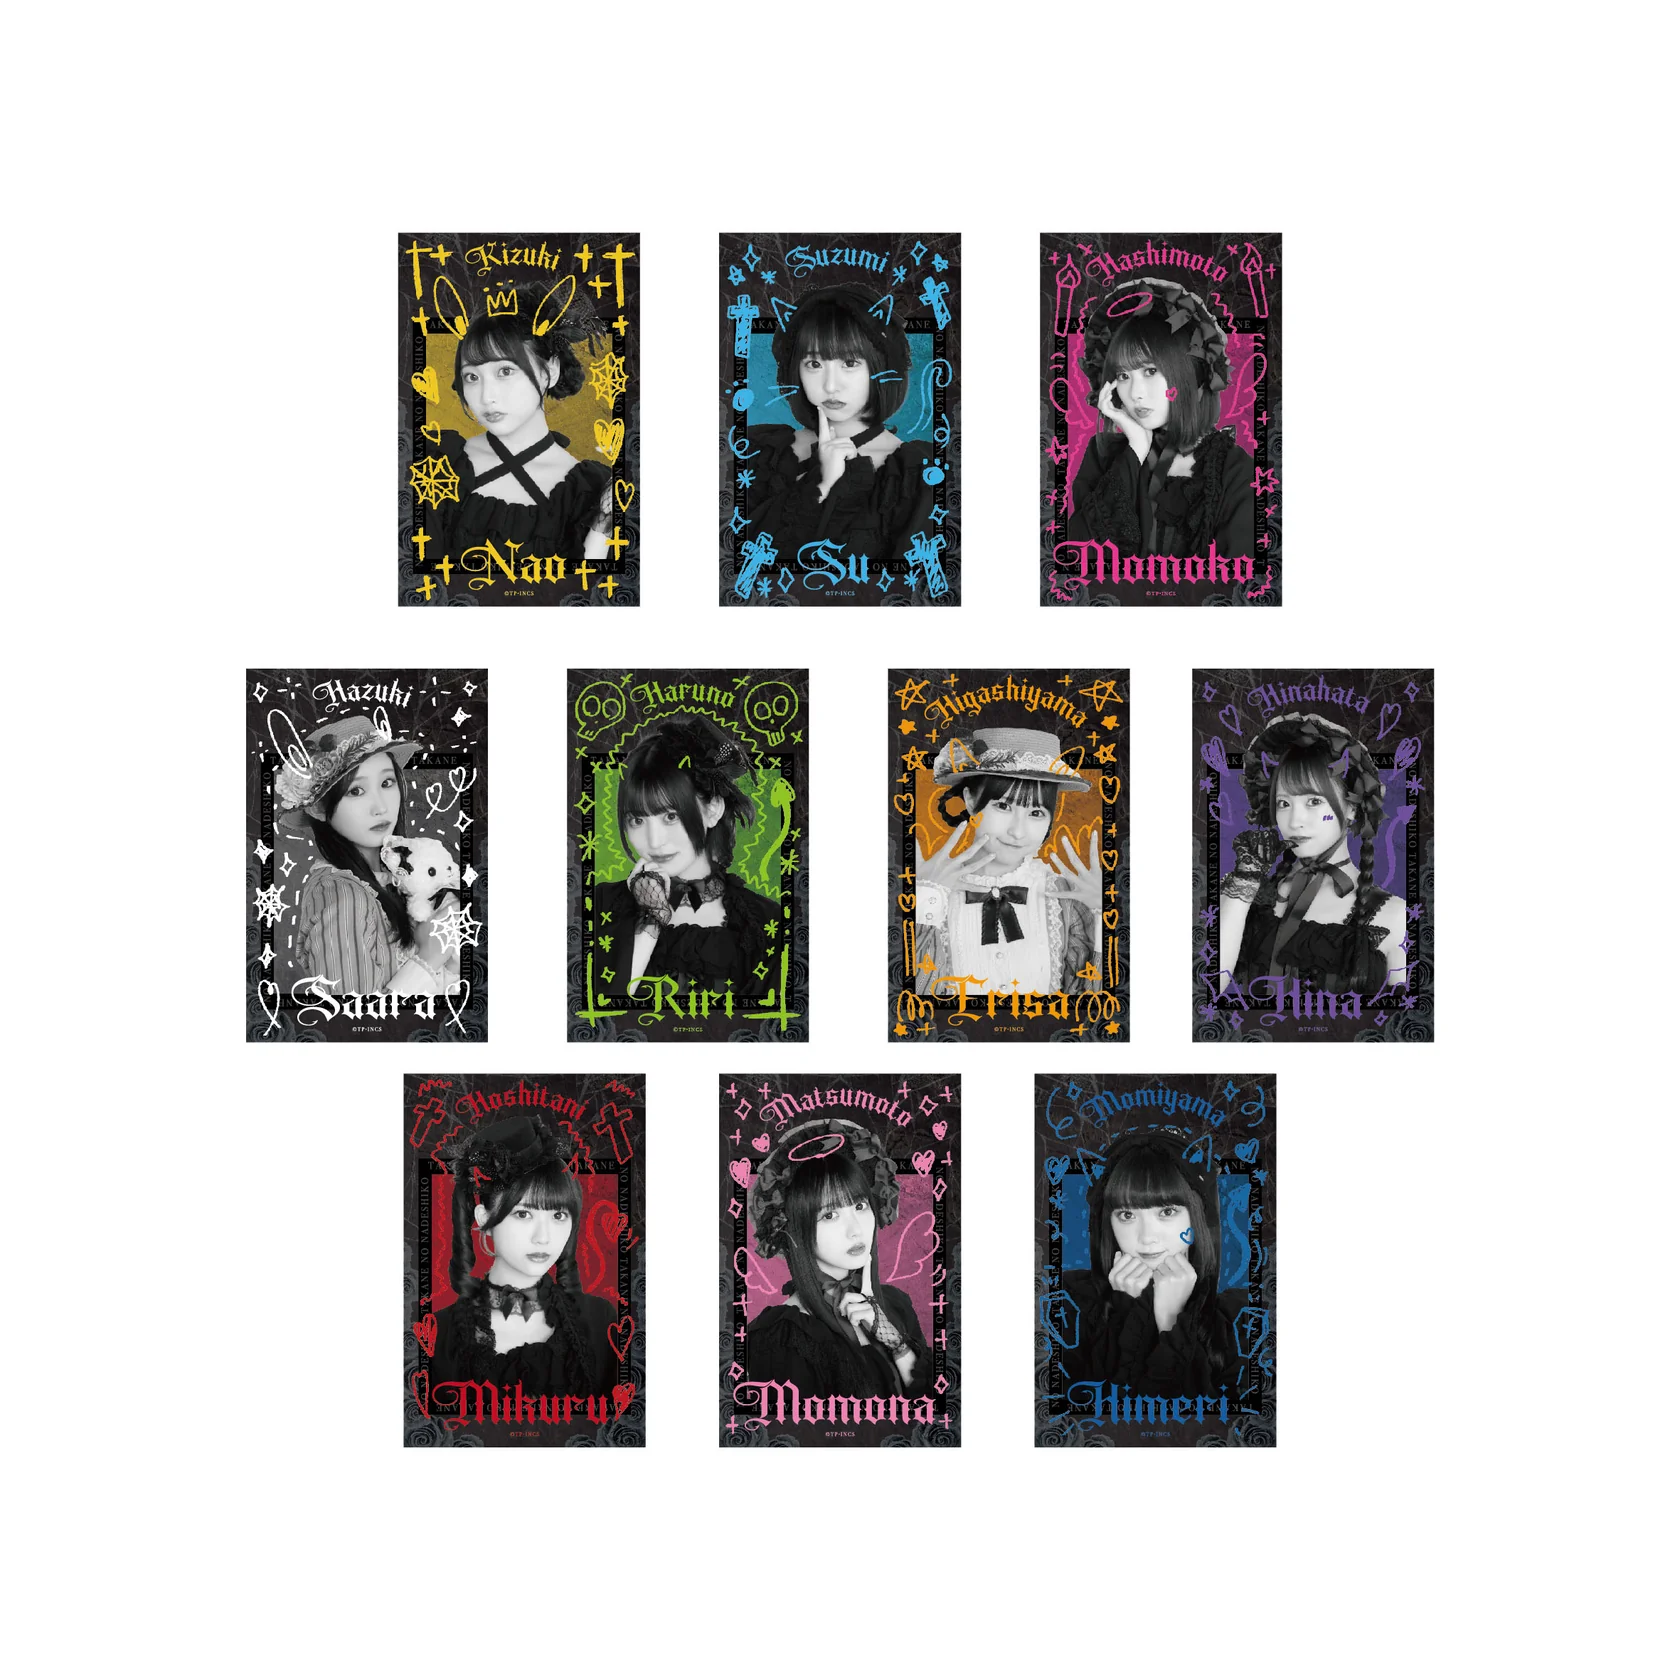
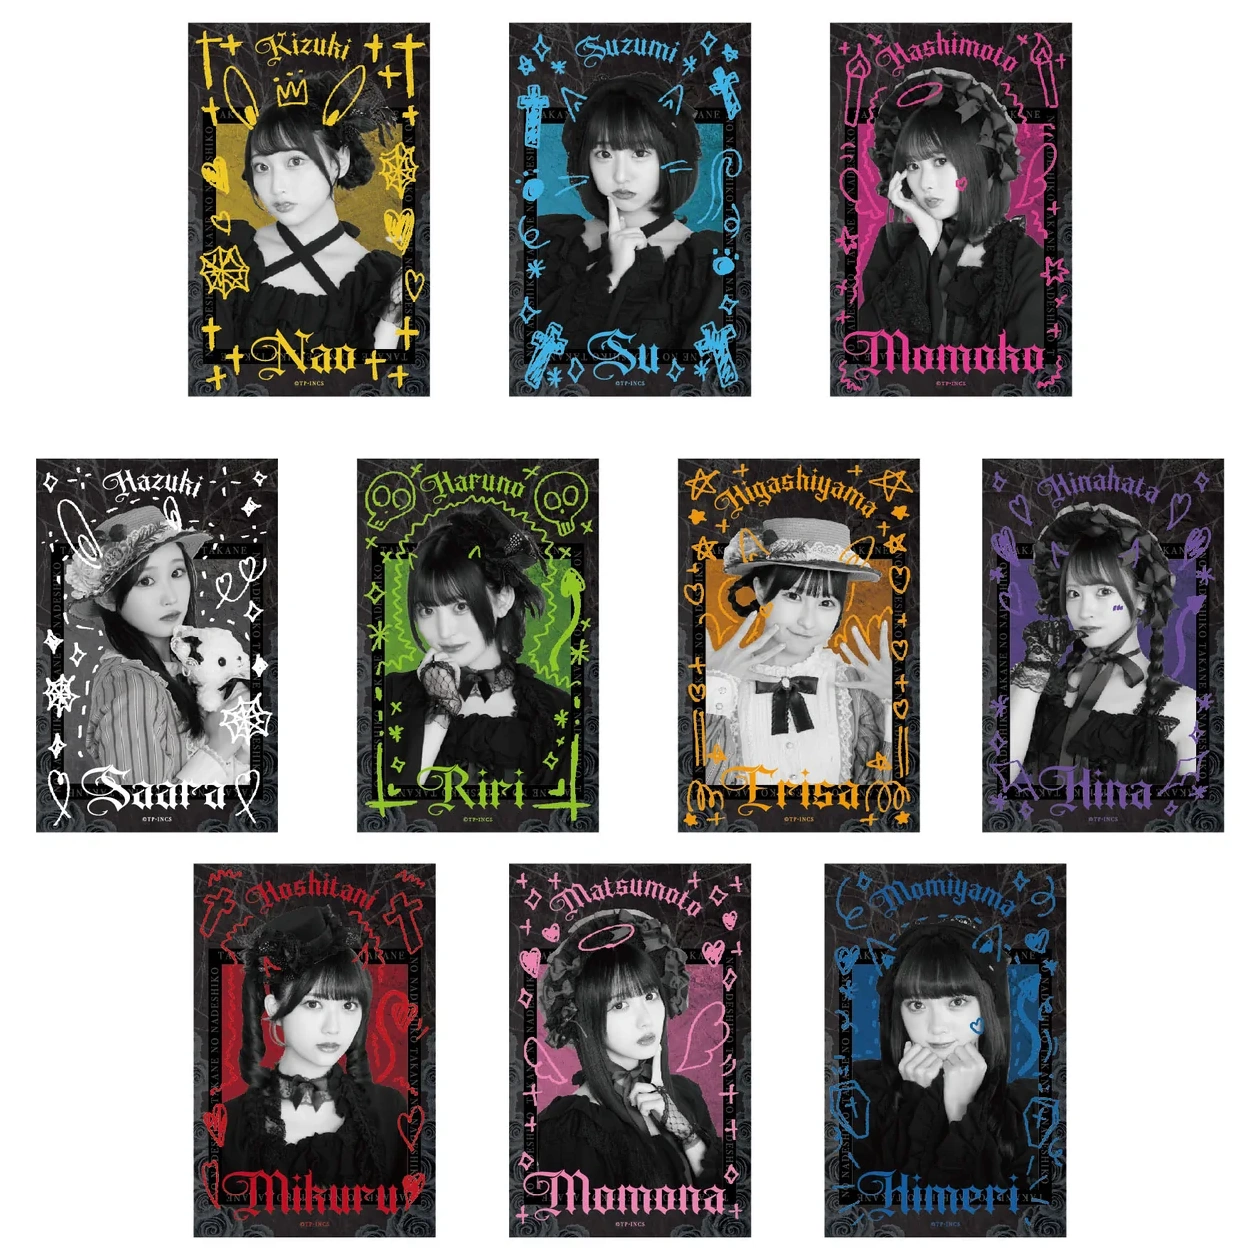
画像の変更に対応

diff --git a/app/features/products/2024/2024-10-31_ハロウィン2024_生写真.ts b/app/features/products/2024/2024-10-31_ハロウィン2024_生写真.ts
@@ -8,39 +8,39 @@ export const ハロウィン2024_生写真: RandomGoods = {
   series: "ハロウィン 2024",
   category: "生写真",
   url: "/takaneko/photos/2024-10-31_ハロウィン2024.webp",
-  width: 1118,
-  height: 698,
+  width: 1680,
+  height: 2127,
   lineup: CENTERED_PHOTO_SET,
   positions: [
-    { id: 1, x: 22, y: 22, width: 110, height: 157 },
-    { id: 2, x: 142, y: 22, width: 110, height: 157 },
-    { id: 3, x: 262, y: 22, width: 110, height: 157 },
-    { id: 4, x: 383, y: 22, width: 110, height: 157 },
-    { id: 5, x: 503, y: 22, width: 110, height: 157 },
-    { id: 6, x: 623, y: 22, width: 110, height: 157 },
-    { id: 7, x: 744, y: 22, width: 110, height: 157 },
-    { id: 8, x: 864, y: 22, width: 110, height: 157 },
-    { id: 9, x: 984, y: 22, width: 110, height: 157 },
-    { id: 10, x: 202, y: 188, width: 110, height: 157 },
-    { id: 11, x: 323, y: 188, width: 110, height: 157 },
-    { id: 12, x: 443, y: 188, width: 110, height: 157 },
-    { id: 13, x: 563, y: 188, width: 110, height: 157 },
-    { id: 14, x: 684, y: 188, width: 110, height: 157 },
-    { id: 15, x: 804, y: 188, width: 110, height: 157 },
-    { id: 16, x: 22, y: 354, width: 110, height: 157 },
-    { id: 17, x: 142, y: 354, width: 110, height: 157 },
-    { id: 18, x: 262, y: 354, width: 110, height: 157 },
-    { id: 19, x: 383, y: 354, width: 110, height: 157 },
-    { id: 20, x: 503, y: 354, width: 110, height: 157 },
-    { id: 21, x: 623, y: 354, width: 110, height: 157 },
-    { id: 22, x: 744, y: 354, width: 110, height: 157 },
-    { id: 23, x: 864, y: 354, width: 110, height: 157 },
-    { id: 24, x: 984, y: 354, width: 110, height: 157 },
-    { id: 25, x: 202, y: 519, width: 110, height: 157 },
-    { id: 26, x: 323, y: 519, width: 110, height: 157 },
-    { id: 27, x: 443, y: 519, width: 110, height: 157 },
-    { id: 28, x: 563, y: 519, width: 110, height: 157 },
-    { id: 29, x: 684, y: 519, width: 110, height: 157 },
-    { id: 30, x: 804, y: 519, width: 110, height: 157 },
+    { id: 1, x: 45, y: 240, width: 233, height: 333 },
+    { id: 2, x: 316, y: 240, width: 233, height: 333 },
+    { id: 3, x: 588, y: 240, width: 233, height: 333 },
+    { id: 4, x: 859, y: 240, width: 233, height: 333 },
+    { id: 5, x: 1131, y: 240, width: 233, height: 333 },
+    { id: 6, x: 1403, y: 240, width: 233, height: 333 },
+    { id: 7, x: 45, y: 593, width: 233, height: 333 },
+    { id: 8, x: 316, y: 593, width: 233, height: 333 },
+    { id: 9, x: 588, y: 593, width: 233, height: 333 },
+    { id: 10, x: 859, y: 593, width: 233, height: 333 },
+    { id: 11, x: 1131, y: 593, width: 233, height: 333 },
+    { id: 12, x: 1403, y: 593, width: 233, height: 333 },
+    { id: 13, x: 45, y: 960, width: 233, height: 333 },
+    { id: 14, x: 316, y: 960, width: 233, height: 333 },
+    { id: 15, x: 588, y: 960, width: 233, height: 333 },
+    { id: 16, x: 859, y: 960, width: 233, height: 333 },
+    { id: 17, x: 1131, y: 960, width: 233, height: 333 },
+    { id: 18, x: 1403, y: 960, width: 233, height: 333 },
+    { id: 19, x: 45, y: 1328, width: 233, height: 333 },
+    { id: 20, x: 316, y: 1328, width: 233, height: 333 },
+    { id: 21, x: 588, y: 1328, width: 233, height: 333 },
+    { id: 22, x: 859, y: 1328, width: 233, height: 333 },
+    { id: 23, x: 1131, y: 1328, width: 233, height: 333 },
+    { id: 24, x: 1403, y: 1328, width: 233, height: 333 },
+    { id: 25, x: 45, y: 1696, width: 233, height: 333 },
+    { id: 26, x: 316, y: 1696, width: 233, height: 333 },
+    { id: 27, x: 588, y: 1696, width: 233, height: 333 },
+    { id: 28, x: 859, y: 1696, width: 233, height: 333 },
+    { id: 29, x: 1131, y: 1696, width: 233, height: 333 },
+    { id: 30, x: 1403, y: 1696, width: 233, height: 333 },
   ],
 };

diff --git a/app/features/products/2024/2024-10-31_ハロウィン2024_ミニフォト.ts b/app/features/products/2024/2024-10-31_ハロウィン2024_ミニフォト.ts
@@ -8,39 +8,39 @@ export const ハロウィン2024_ミニフォト: RandomGoods = {
   series: "ハロウィン 2024",
   category: "ミニフォト",
   url: "/takaneko/mini-photo-cards/2024-10-31_ハロウィン2024.webp",
-  width: 1118,
-  height: 698,
+  width: 1680,
+  height: 2127,
   lineup: REGULAR_MINI_PHOTO_SET,
   positions: [
-    { id: 1, x: 64, y: 23, width: 98, height: 155 },
-    { id: 2, x: 175, y: 23, width: 98, height: 155 },
-    { id: 3, x: 286, y: 23, width: 98, height: 155 },
-    { id: 4, x: 397, y: 23, width: 98, height: 155 },
-    { id: 5, x: 508, y: 23, width: 98, height: 155 },
-    { id: 6, x: 620, y: 23, width: 98, height: 155 },
-    { id: 7, x: 731, y: 23, width: 98, height: 155 },
-    { id: 8, x: 842, y: 23, width: 98, height: 155 },
-    { id: 9, x: 953, y: 23, width: 98, height: 155 },
-    { id: 10, x: 231, y: 189, width: 98, height: 155 },
-    { id: 11, x: 342, y: 189, width: 98, height: 155 },
-    { id: 12, x: 453, y: 189, width: 98, height: 155 },
-    { id: 13, x: 564, y: 189, width: 98, height: 155 },
-    { id: 14, x: 675, y: 189, width: 98, height: 155 },
-    { id: 15, x: 786, y: 189, width: 98, height: 155 },
-    { id: 16, x: 64, y: 355, width: 98, height: 155 },
-    { id: 17, x: 175, y: 355, width: 98, height: 155 },
-    { id: 18, x: 286, y: 355, width: 98, height: 155 },
-    { id: 19, x: 397, y: 355, width: 98, height: 155 },
-    { id: 20, x: 508, y: 355, width: 98, height: 155 },
-    { id: 21, x: 620, y: 355, width: 98, height: 155 },
-    { id: 22, x: 731, y: 355, width: 98, height: 155 },
-    { id: 23, x: 842, y: 355, width: 98, height: 155 },
-    { id: 24, x: 953, y: 355, width: 98, height: 155 },
-    { id: 25, x: 231, y: 523, width: 98, height: 155 },
-    { id: 26, x: 342, y: 523, width: 98, height: 155 },
-    { id: 27, x: 453, y: 523, width: 98, height: 155 },
-    { id: 28, x: 564, y: 523, width: 98, height: 155 },
-    { id: 29, x: 675, y: 523, width: 98, height: 155 },
-    { id: 30, x: 786, y: 523, width: 98, height: 155 },
+    { id: 1, x: 75, y: 241, width: 212, height: 332 },
+    { id: 2, x: 339, y: 241, width: 212, height: 332 },
+    { id: 3, x: 603, y: 241, width: 212, height: 332 },
+    { id: 4, x: 867, y: 241, width: 212, height: 332 },
+    { id: 5, x: 1131, y: 241, width: 212, height: 332 },
+    { id: 6, x: 1395, y: 241, width: 212, height: 332 },
+    { id: 7, x: 75, y: 605, width: 212, height: 332 },
+    { id: 8, x: 339, y: 605, width: 212, height: 332 },
+    { id: 9, x: 603, y: 605, width: 212, height: 332 },
+    { id: 10, x: 867, y: 605, width: 212, height: 332 },
+    { id: 11, x: 1131, y: 605, width: 212, height: 332 },
+    { id: 12, x: 1395, y: 605, width: 212, height: 332 },
+    { id: 13, x: 75, y: 969, width: 212, height: 332 },
+    { id: 14, x: 339, y: 969, width: 212, height: 332 },
+    { id: 15, x: 603, y: 969, width: 212, height: 332 },
+    { id: 16, x: 867, y: 969, width: 212, height: 332 },
+    { id: 17, x: 1131, y: 969, width: 212, height: 332 },
+    { id: 18, x: 1395, y: 969, width: 212, height: 332 },
+    { id: 19, x: 75, y: 1333, width: 212, height: 332 },
+    { id: 20, x: 339, y: 1333, width: 212, height: 332 },
+    { id: 21, x: 603, y: 1333, width: 212, height: 332 },
+    { id: 22, x: 867, y: 1333, width: 212, height: 332 },
+    { id: 23, x: 1131, y: 1333, width: 212, height: 332 },
+    { id: 24, x: 1395, y: 1333, width: 212, height: 332 },
+    { id: 25, x: 75, y: 1697, width: 212, height: 332 },
+    { id: 26, x: 339, y: 1697, width: 212, height: 332 },
+    { id: 27, x: 603, y: 1697, width: 212, height: 332 },
+    { id: 28, x: 867, y: 1697, width: 212, height: 332 },
+    { id: 29, x: 1131, y: 1697, width: 212, height: 332 },
+    { id: 30, x: 1395, y: 1697, width: 212, height: 332 },
   ],
 };

diff --git a/app/features/products/2024/2024-10-31_ハロウィン2024_ステッカー.ts b/app/features/products/2024/2024-10-31_ハロウィン2024_ステッカー.ts
@@ -7,8 +7,8 @@ export const ハロウィン2024_ステッカー: RandomGoods = {
   series: "ハロウィン 2024",
   category: "ステッカー",
   url: "/takaneko/others/2024-10-31_ランダムステッカー「ハロウィン2024」ver.webp",
-  width: 615,
-  height: 610,
+  width: 1260,
+  height: 1260,
   lineup: [
     { id: 1, name: "城月菜央", description: "" },
     { id: 2, name: "涼海すう", description: "" },
@@ -22,15 +22,15 @@ export const ハロウィン2024_ステッカー: RandomGoods = {
     { id: 10, name: "籾山ひめり", description: "" },
   ],
   positions: [
-    { id: 1, x: 98, y: 23, width: 111, height: 173 },
-    { id: 2, x: 247, y: 23, width: 111, height: 173 },
-    { id: 3, x: 396, y: 23, width: 111, height: 173 },
-    { id: 4, x: 27, y: 226, width: 111, height: 173 },
-    { id: 5, x: 176, y: 226, width: 111, height: 173 },
-    { id: 6, x: 326, y: 226, width: 111, height: 173 },
-    { id: 7, x: 467, y: 226, width: 111, height: 173 },
-    { id: 8, x: 100, y: 414, width: 111, height: 173 },
-    { id: 9, x: 247, y: 414, width: 111, height: 173 },
-    { id: 10, x: 394, y: 414, width: 111, height: 173 },
+    { id: 1, x: 189, y: 23, width: 240, height: 372 },
+    { id: 2, x: 510, y: 23, width: 240, height: 372 },
+    { id: 3, x: 831, y: 23, width: 240, height: 372 },
+    { id: 4, x: 37, y: 459, width: 240, height: 372 },
+    { id: 5, x: 358, y: 459, width: 240, height: 372 },
+    { id: 6, x: 679, y: 459, width: 240, height: 372 },
+    { id: 7, x: 983, y: 459, width: 240, height: 372 },
+    { id: 8, x: 194, y: 864, width: 240, height: 372 },
+    { id: 9, x: 510, y: 864, width: 240, height: 372 },
+    { id: 10, x: 826, y: 864, width: 240, height: 372 },
   ],
 };
